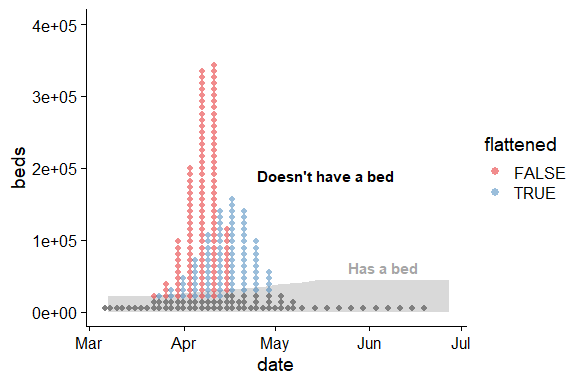
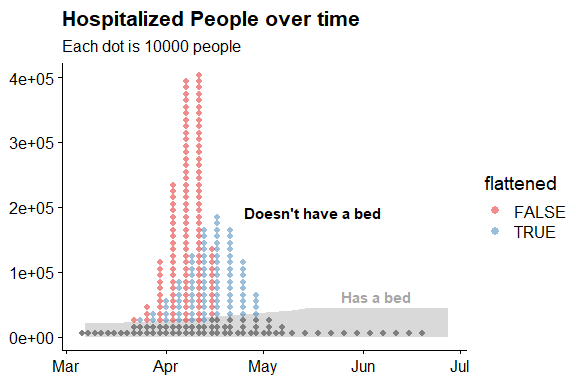
better labels

diff --git a/dotplots.md b/dotplots.md
@@ -157,7 +157,13 @@ hosp_dots %>%
   # because of how dotplots work in ggplot, probably could
   # manually lay out dots instead (wouldn't be hard using
   # hosp_dots$dot_number)
-  scale_y_continuous(limits = c(0, max(hosp$hospitalized)))
+  scale_y_continuous(limits = c(0, max(hosp$hospitalized))) +
+  labs(
+    title = "Hospitalized People over time",
+    subtitle = paste0("Each dot is ", people_per_dot, " people"),
+    y = NULL,
+    x = NULL
+  )
 ```
 
 ![](dotplots_files/figure-gfm/dotplot_combined-1.png)<!-- -->
@@ -190,6 +196,12 @@ hosp_dots %>%
   ) +
   scale_fill_brewer(palette = "Set1", guide = FALSE) +
   scale_y_continuous(limits = c(0, max(hosp$hospitalized))) +
+  labs(
+    title = "Hospitalized People over time",
+    subtitle = paste0("Each dot is ", people_per_dot, " people"),
+    y = NULL,
+    x = NULL
+  ) +
   facet_grid(flattened ~ .)
 ```
 
